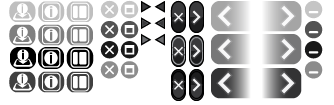
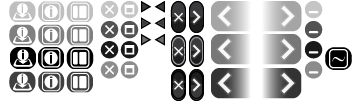
m

diff --git a/framethrower/branches/v1.5.5/css/style.css b/framethrower/branches/v1.5.5/css/style.css
@@ -686,6 +686,15 @@ buttons
 	top: 0px;
 }
 
+.viewCorresponds, .viewCorrespondsSelected {
+	background-image:url(../images/zui.1/buttons.png);
+	background-position:-325px -48px;
+	float:right;
+	height:21px;
+	top:0;
+	width:27px;
+}
+
 .viewSituation, .viewSituationSelected {
 	background-position: -67px -47px;
 }
@@ -698,15 +707,15 @@ buttons
 	background-position: -9px -47px;
 }
 
-.viewSituation, .viewInfons, .viewInfonsAbout {
+.viewSituation, .viewInfons, .viewInfonsAbout, .viewCorresponds {
 	opacity: .5;
 }
 
-.viewSituation:hover, .viewInfons:hover, .viewInfonsAbout:hover {
+.viewSituation:hover, .viewInfons:hover, .viewInfonsAbout:hover, .viewCorresponds:hover {
 	opacity: .75;
 }
 
-.viewSituationSelected, .viewInfonsSelected, .viewInfonsAboutSelected {
+.viewSituationSelected, .viewInfonsSelected, .viewInfonsAboutSelected, .viewCorrespondsSelected {
 	opacity: .9;
 }
 
